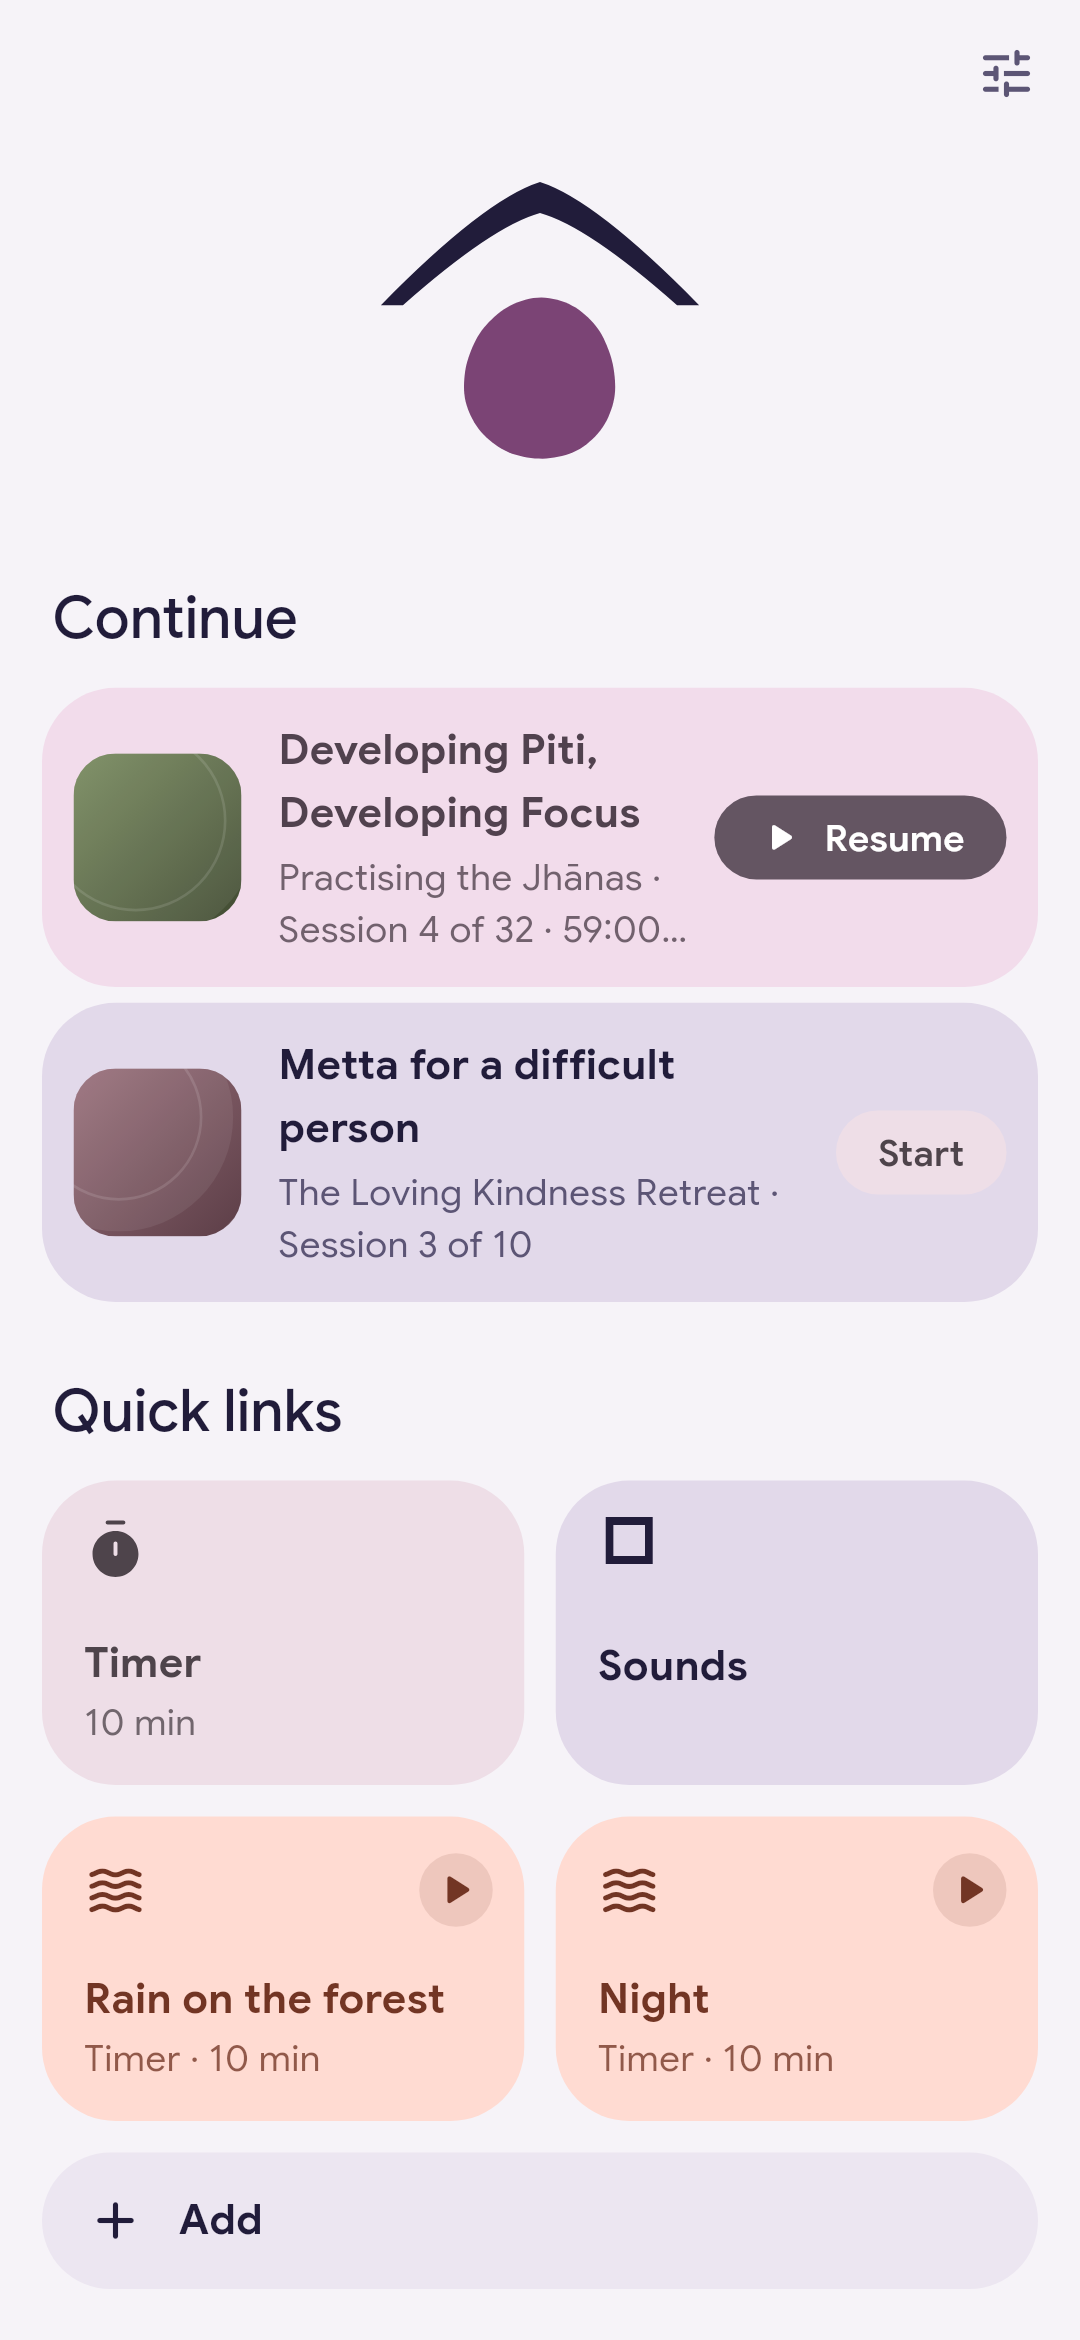
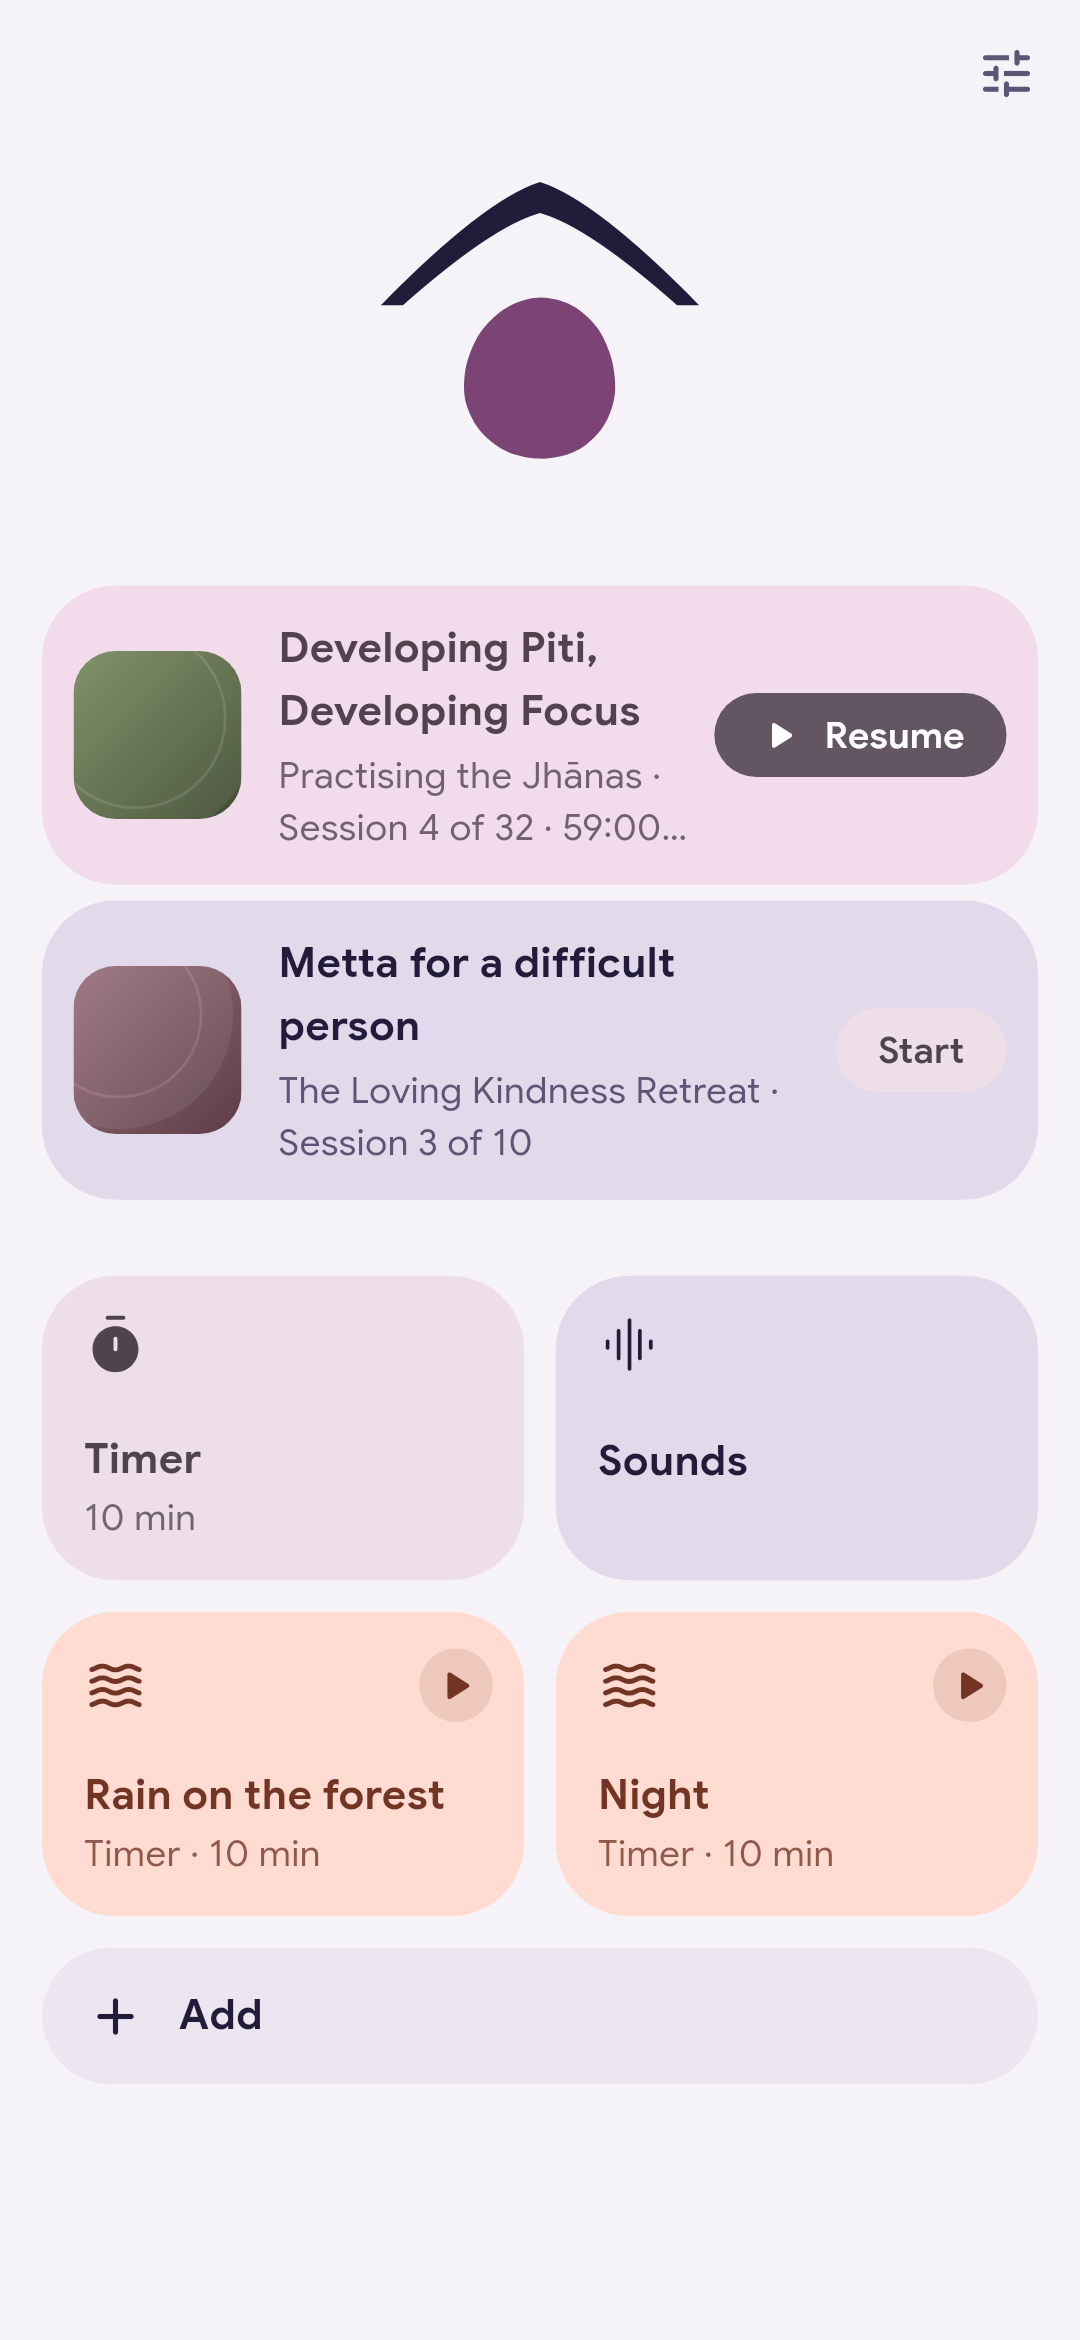
docs(identity): re-render Home without headings; load Material Symbols
After merging develop (no headings under the mark), the Home screenshots
were stale. The identity harness now also loads Material Symbols, which
Home's tiles use (the Sounds tile showed a box).

Verified: identity_screenshots_test renders all 12 shots; looked at each
Home shot.

diff --git a/test/screenshots/identity_screenshots_test.dart b/test/screenshots/identity_screenshots_test.dart
@@ -56,6 +56,15 @@ Future<void> _loadFonts() async {
         ).readAsBytes().then((b) => ByteData.sublistView(b)),
       ))
       .load();
+  // Home's tiles use Material Symbols.
+  await (FontLoader(
+        'packages/material_symbols_icons/MaterialSymbolsRounded',
+      )..addFont(
+        rootBundle.load(
+          'packages/material_symbols_icons/lib/fonts/MaterialSymbolsRounded.ttf',
+        ),
+      ))
+      .load();
 }
 
 final _boundary = GlobalKey();
